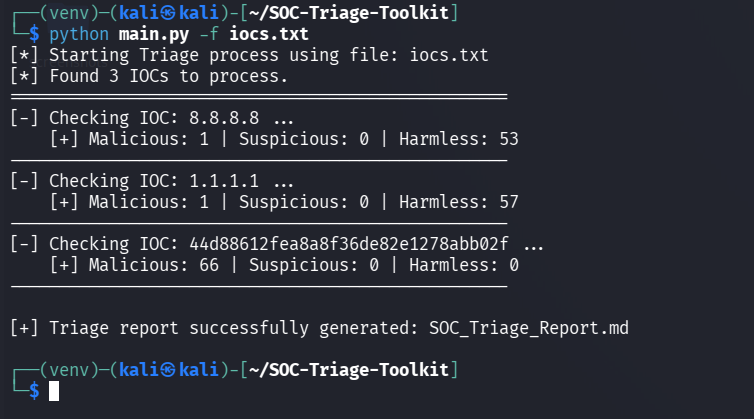
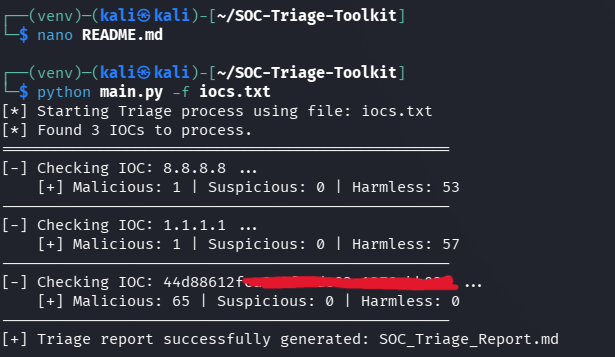
Update images: add new screenshots and remove old ones

Changed region(s): [[0.0, 0.0, 0.7415, 0.7087], [0.0, 0.7395, 0.9268, 0.986]]

diff --git a/SOC_Triage_Report.md b/SOC_Triage_Report.md
@@ -1,17 +1,45 @@
-# 🛡 Automated SOC Alert Triage Report
-**Generated on:** `2026-11-17 06:24:55`
-**Tool:** SOC-Triage-Toolkit  
+# Automated SOC Alert Triage Report
+**Generated on:** `2026-11-18 14:55:46`<br>
+**Tool:** SOC-Triage-Toolkit
 
 ---
 
 ## 📊 Executive Summary
 This report contains the automated threat intelligence enrichment results for the submitted Indicators of Compromise (IOCs) via VirusTotal API.
 
-| IOC Value | Type / Status | Malicious 🚨 | Suspicious ⚠ | Harmless ✅ |
-| :--- | :--- | :---: | :---: | :---:
-| `8.8.8.8` | Success | 🔴 **1** | 0 | 53 |
-| `1.1.1.1` | Success | 🔴 **1** | 0 | 57 |
-| `44d88612fea8a8f36de82e1278abb02f` | Success | 🔴 **65** | 0 | 0 |
+### 🚨 Executive Assessment
+**CRITICAL: 1 critical IOC(s) detected. Immediate investigation and containment required.**
+
+## 📈 Executive Summary Statistics
+
+| Metric | Count |
+| :--- | :---: |
+| Total IOCs | 3 |
+| Successful Scans | 3 |
+| Failed Scans | 0 |
+| Malicious IOCs 🚨 | 1 |
+| Needs Review 🔎 | 2 |
+| Suspicious IOCs ⚠ | 0 |
+| Clean IOCs ✅ | 0 |
+
+### 🎯 Severity Distribution
+
+| Severity Level | Count |
+| :--- | :---: |
+| Critical 🔴 | 1 |
+| High 🟠 | 2 |
+| Medium 🟡 | 0 |
+| Informational 🟢 | 0 |
+| Unknown ⚪ | 0 |
+
+---
+
+## IOC Investigation Results
+| IOC Value | IOC Type | Status | Threat Verdict | Severity | Malicious 🚨 | Suspicious ⚠ | Harmless ✅ | Analyst Recommendation |
+| :--- | :--- | :--- | :--- | :--- | :---: | :---: | :---: | :--- |
+| `8.8.8.8` | ip_address | Success | 🔎 Needs Review | High | 1 | 0 | 53 | Prioritize investigation |
+| `1.1.1.1` | ip_address | Success | 🔎 Needs Review | High | 1 | 0 | 57 | Prioritize investigation |
+| `44d88612fea8a8f36de82e1278abb02f` | md5 | Success | 🔴 Malicious | Critical | 65 | 0 | 0 | Immediate investigation and containment |
 
 ---
 > *Report automatically generated by Shrouq's SOC-Triage-Toolkit.*
